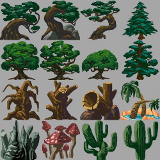
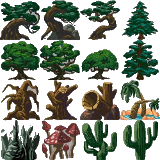
Fixed trees transparency and little code cleaning

diff --git a/physics.py b/physics.py
@@ -86,7 +86,7 @@ class PhysicsSprite(pygame.sprite.DirtySprite):
 
     def setFrame(self, n):
         l = n // self.spritesPerLine
-        c = n %  self.spritesPerLine
+        c = n % self.spritesPerLine
         self.source_rect.left = c * self.source_rect.w
         self.source_rect.top = l * self.source_rect.h
         self.dirty = 1

diff --git a/game.py b/game.py
@@ -2,12 +2,7 @@ import pygame
 import os
 
 # Define the colors we will use in RGB format
-black = [  0,  0,  0]
 white = [255,255,255]
-blue =  [  0,  0,255]
-green = [  0,255,  0]
-red =   [255,  0,  0]
-gray =  [127, 127, 127]
 
 pi = 3.141592653
 
